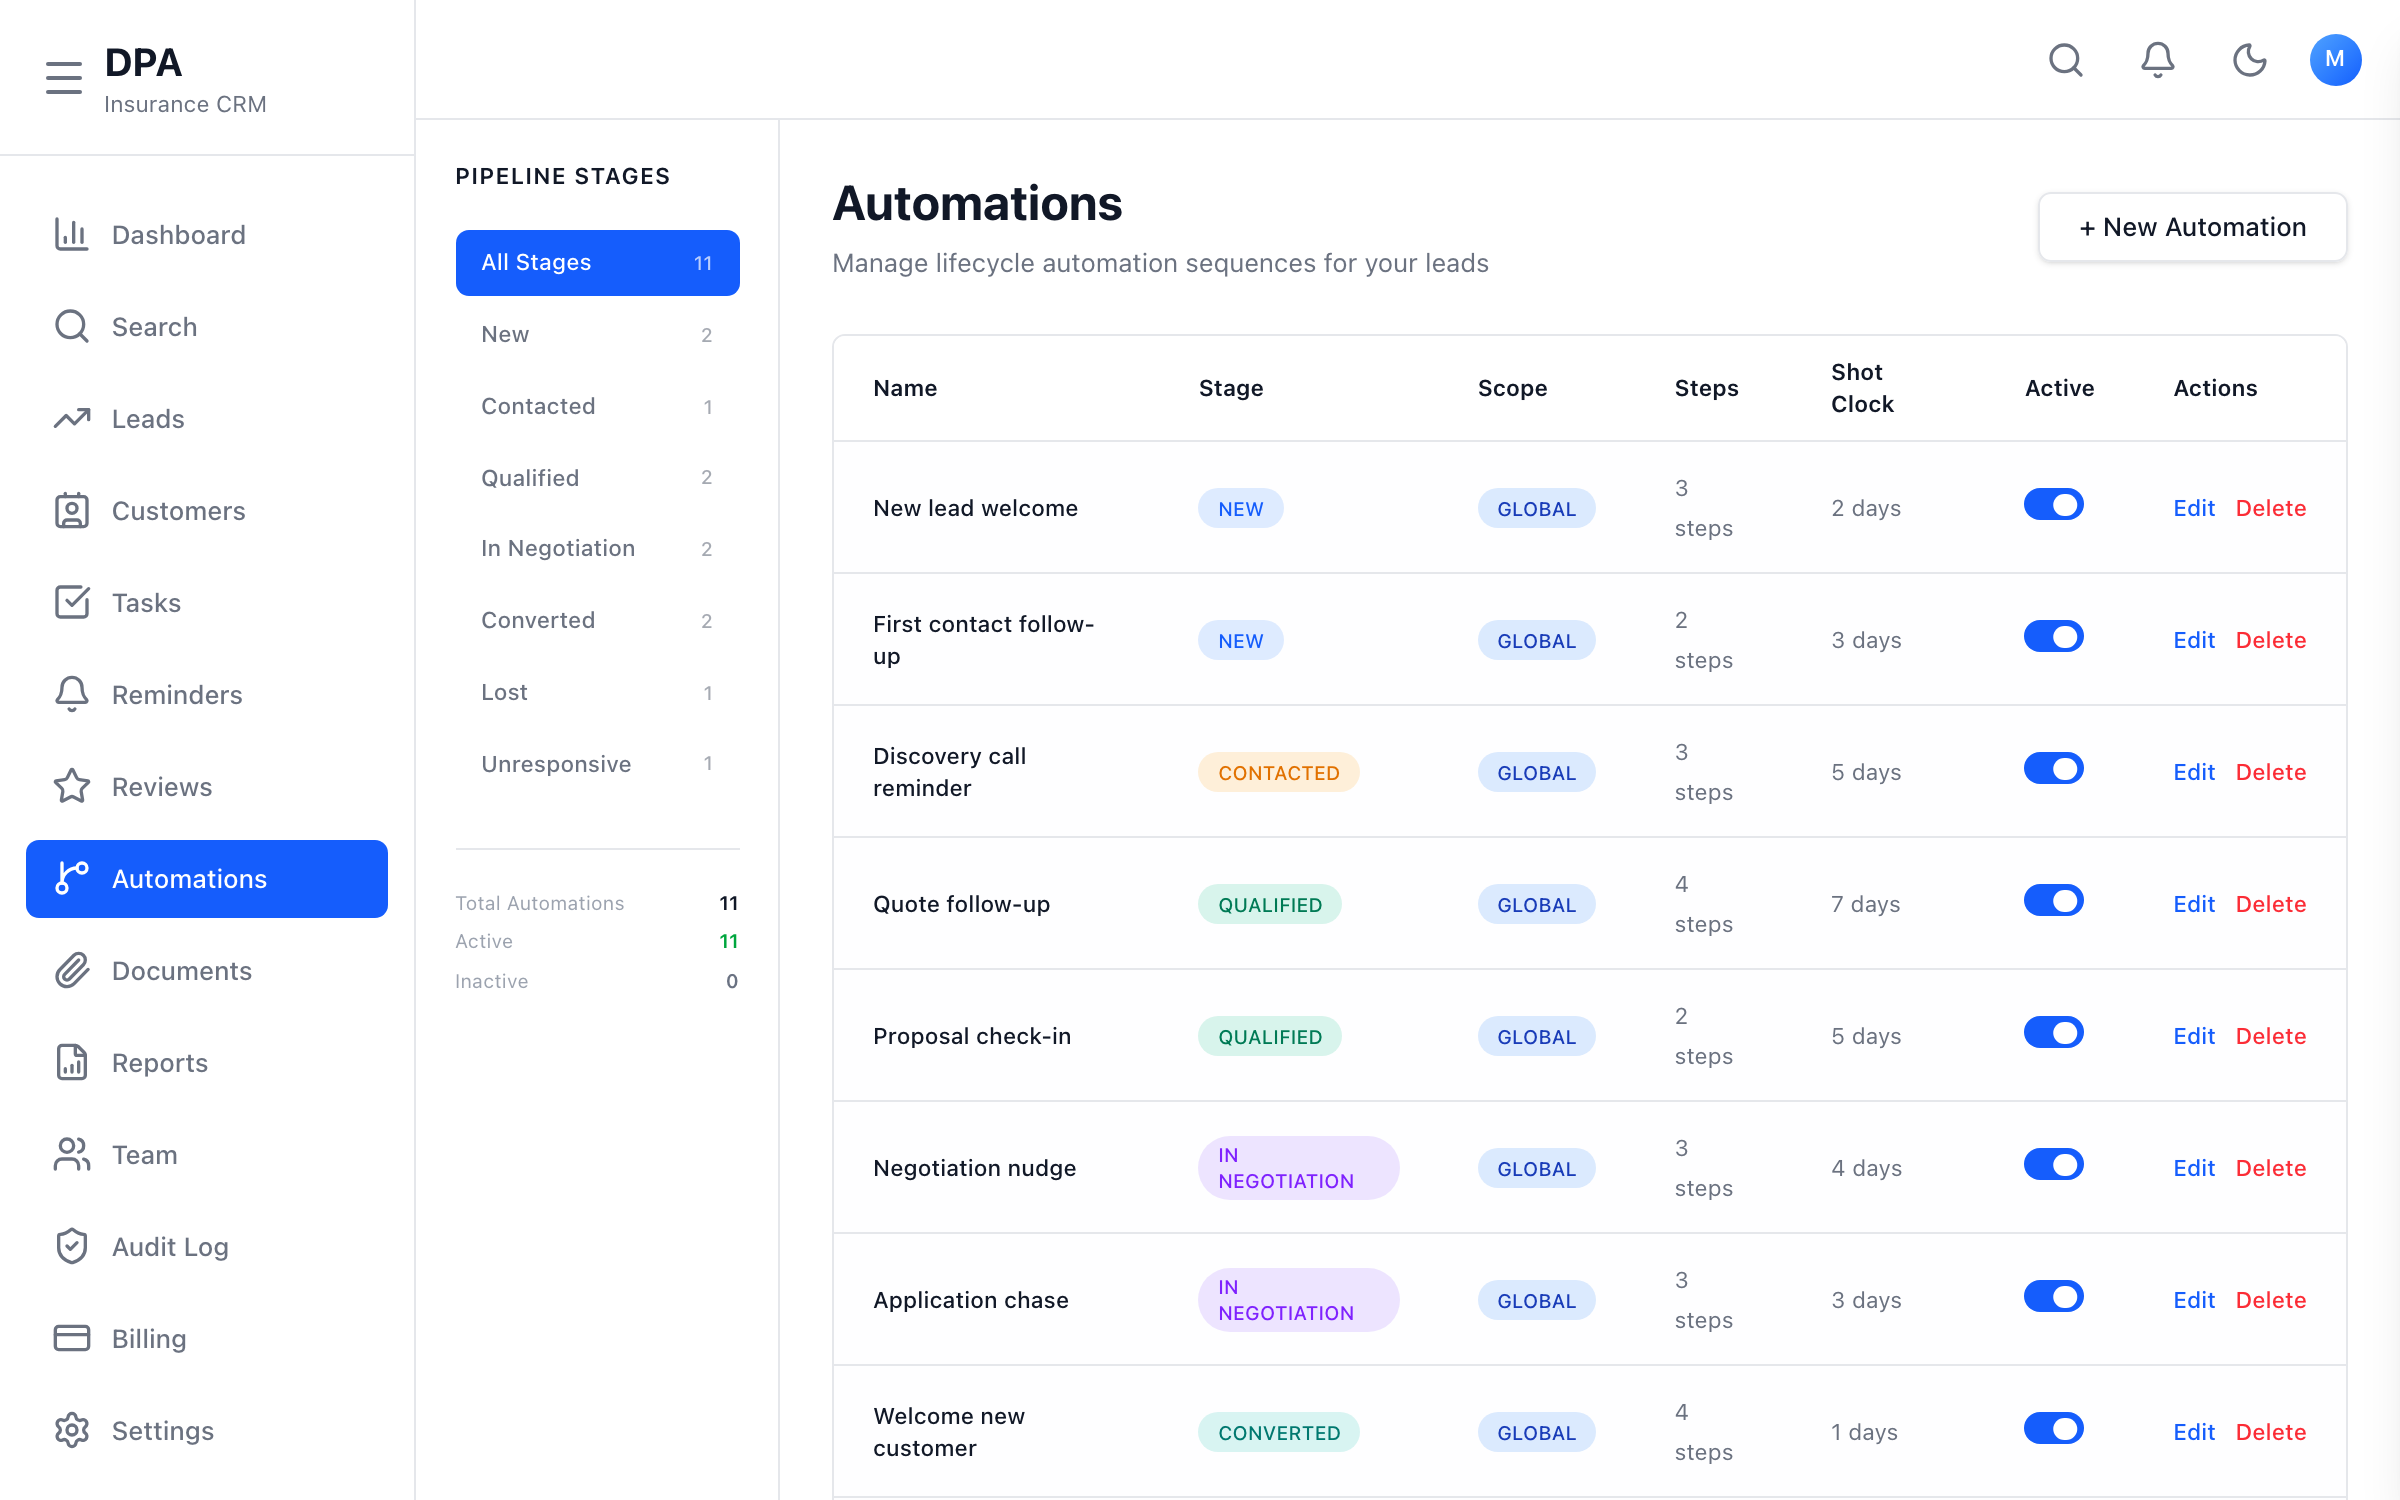
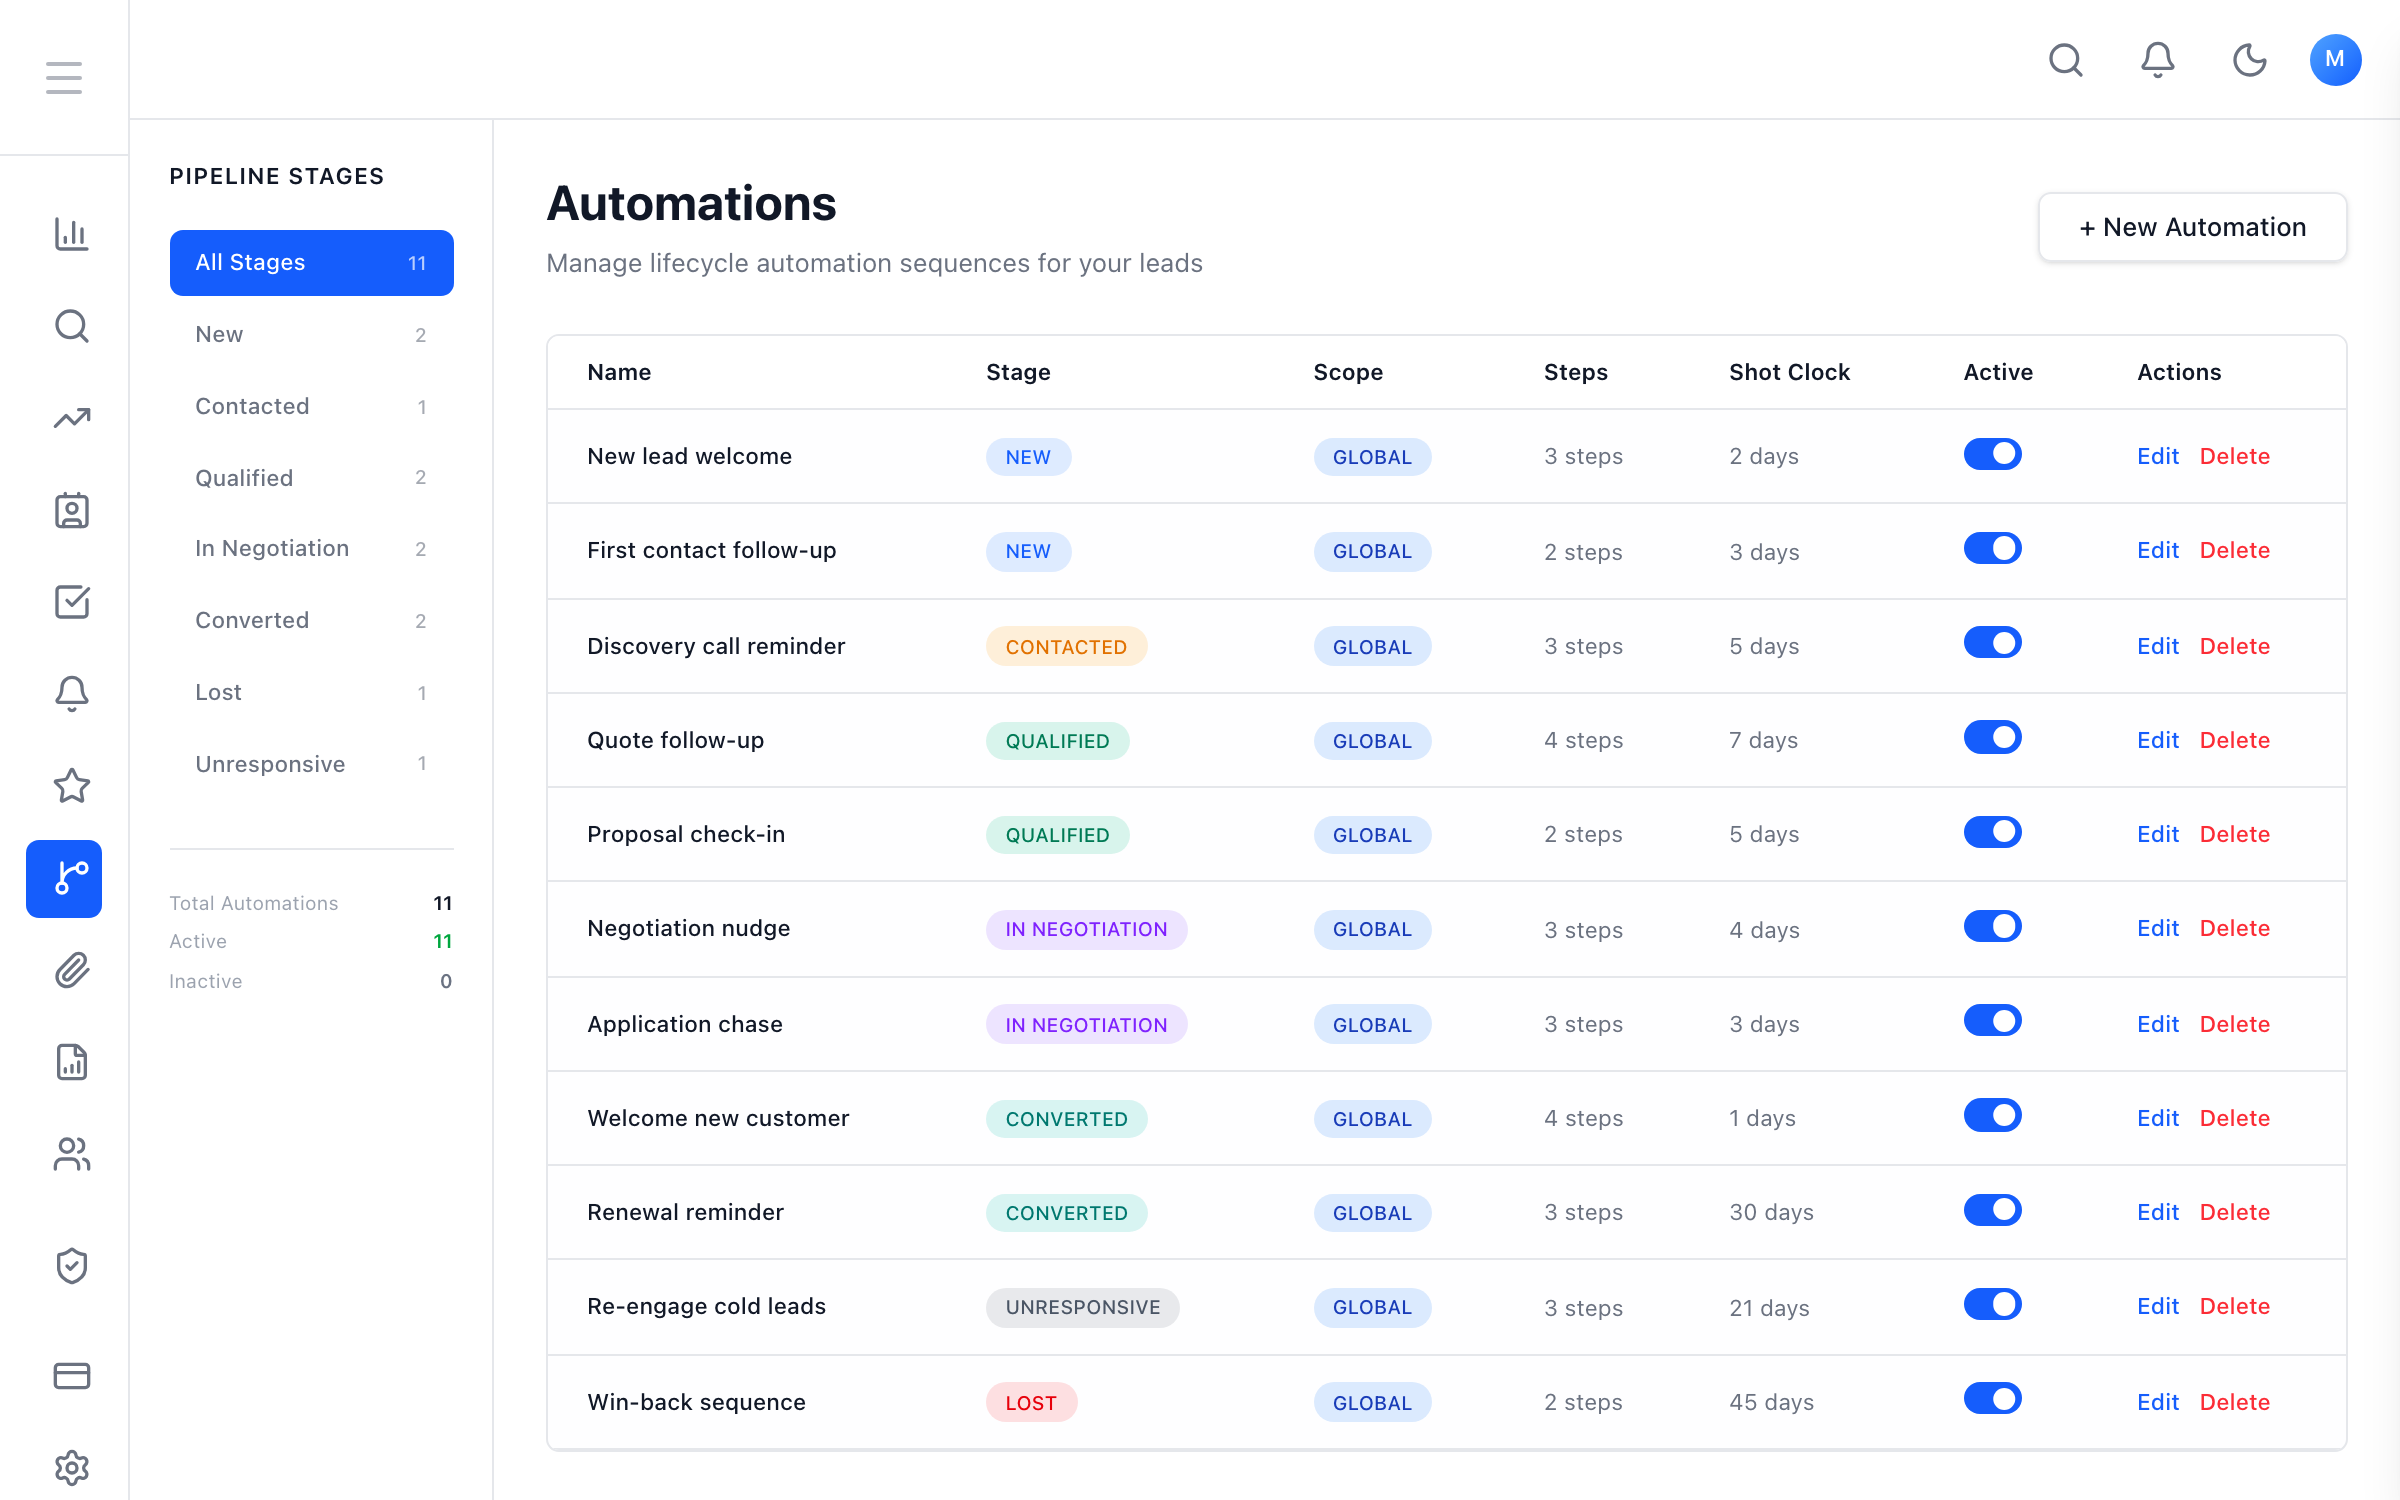
feat: add AI carousel and About section, drop How It Works
Brings the Just Ask section in line with the pipeline one — a four-card
carousel of real screenshots of the in-app assistant. Its replies are
scripted at the SSE layer for capture, since the assistant's tools query
the live database server-side and would otherwise expose real contacts.

Swaps the pipeline's tasks card for reports, which closes the section on
a stronger note (see everything, see one, automate it, measure it), and
recaptures cards 2-4 with the app's nav collapsed so the screenshots
carry less chrome.

Adds a full-bleed About section and points the Console link at
app.dpatricore.com, now live on the frontend project.

The team photo is a stock placeholder — it renders with a visible warning
and must be replaced before launch.

diff --git a/lib/constants/landing.ts b/lib/constants/landing.ts
@@ -1,8 +1,7 @@
 import type {
-  FeatureSection,
+  About,
   FeatureCarouselItem,
   HeroSlide,
-  Step,
   PricingTier,
   FooterColumn,
 } from "@/lib/types/landing";
@@ -10,10 +9,9 @@ import type {
 export const SITE = {
   name: "DPA",
   tagline: "The CRM built for insurance brokers",
+  consoleUrl: "https://app.dpatricore.com",
 };
 
-// AI slide is placeholder copy — DPA has no confirmed AI feature yet.
-// Verify against the actual product before this goes live.
 export const HERO_SLIDES: HeroSlide[] = [
   {
     video: "/hero-pipeline.mp4",
@@ -44,9 +42,10 @@ export const HERO_SLIDES: HeroSlide[] = [
   },
 ];
 
-// Only 2 of the eventual 3 feature sections are drafted so far (see PipelineSection / AISection).
+// 2 of the eventual 3 feature sections are built (see PipelineSection / AISection).
 // Pipeline screenshots are captured from the real app against mocked API data (fictional agency,
-// no real contacts). AI section is still a placeholder — the feature doesn't exist yet.
+// no real contacts). AI screenshots come from the in-app assistant with its SSE reply scripted,
+// since its tools query the real DB server-side.
 export const PIPELINE_HEADLINE = "Your Pipeline Engine";
 
 export const PIPELINE_CAROUSEL_ITEMS: FeatureCarouselItem[] = [
@@ -72,57 +71,55 @@ export const PIPELINE_CAROUSEL_ITEMS: FeatureCarouselItem[] = [
     image: "/feature-automations.png",
   },
   {
-    title: "Know what's due today",
+    title: "Know your numbers",
     description:
-      "Follow-ups, renewals, and deadlines land on your task list before they're late.",
-    imageAlt: "DPA task list showing what's due",
-    image: "/feature-tasks.png",
+      "Conversion rate, leads by stage, and how each agent is tracking over any date range.",
+    imageAlt: "DPA reports showing conversion rate and leads by stage",
+    image: "/feature-reports.png",
   },
 ];
 
-export const AI_SECTION: FeatureSection = {
-  headline: "Just Ask",
-  description:
-    "A chat built into the system. Ask for what you need, and it's done — no menus, no digging.",
-  imageAlt: "DPA AI chat responding to a prompt",
-  points: [
-    {
-      title: "Ask for a report",
-      description:
-        "Get a straight answer on your pipeline without opening a spreadsheet.",
-    },
-    {
-      title: "Ask it to build",
-      description: "Describe a pipeline or workflow, and it sets it up.",
-    },
-    {
-      title: "Ask it to remind you",
-      description:
-        "Say what to follow up on, and when — it remembers so you don't have to.",
-    },
-  ],
+export const AI_HEADLINE = "Just Ask";
+
+export const AI_CAROUSEL_ITEMS: FeatureCarouselItem[] = [
+  {
+    title: "Ask for a report",
+    description:
+      "Get a straight answer on your pipeline without opening a spreadsheet.",
+    imageAlt: "DPA AI chat answering a question about pipeline numbers",
+    image: "/feature-ai-report.png",
+  },
+  {
+    title: "Ask it to remind you",
+    description:
+      "Say what to follow up on, and when — it remembers so you don't have to.",
+    imageAlt: "DPA AI chat setting a follow-up reminder",
+    image: "/feature-ai-remind.png",
+  },
+  {
+    title: "Ask it to move a batch",
+    description:
+      "Shift a whole group of leads to a new stage at once — it checks with you first.",
+    imageAlt: "DPA AI chat proposing a bulk stage change",
+    image: "/feature-ai-move.png",
+  },
+  {
+    title: "Ask about a lead",
+    description:
+      "Where they stand, what was said last, and what's still outstanding.",
+    imageAlt: "DPA AI chat summarizing a lead's status and history",
+    image: "/feature-ai-lead.png",
+  },
+];
+
+// PLACEHOLDER — team photo is a stock shot, used only to demo the layout.
+// Replace before launch (the whiteboard in it belongs to another company).
+export const ABOUT: About = {
+  headline: "Management",
+  intro: "We build tools we want to use ourselves.",
+  photo: "/team-PLACEHOLDER.webp",
+  photoAlt: "Placeholder photo standing in for the DPA team",
 };
-
-export const HOW_IT_WORKS_STEPS: Step[] = [
-  {
-    number: "01",
-    title: "Import your book of business",
-    description:
-      "Upload a CSV of your existing leads or add them manually. Duplicates are flagged automatically, so your pipeline starts clean.",
-  },
-  {
-    number: "02",
-    title: "Automate your pipeline",
-    description:
-      "Set rules for follow-ups, reminders, and status changes so leads keep moving even when you're on a call.",
-  },
-  {
-    number: "03",
-    title: "Close with confidence",
-    description:
-      "Track every touchpoint — call, email, document — until the policy is signed, all in one shared record.",
-  },
-];
 
 // Placeholder pricing — replace with real figures before launch.
 export const PRICING_TIERS: PricingTier[] = [
@@ -176,14 +173,13 @@ export const FOOTER_COLUMNS: FooterColumn[] = [
     title: "Product",
     links: [
       { label: "Features", href: "#features" },
-      { label: "How it works", href: "#how-it-works" },
       { label: "Pricing", href: "#pricing" },
     ],
   },
   {
     title: "Company",
     links: [
-      { label: "About", href: "#" },
+      { label: "About", href: "#about" },
       { label: "Contact", href: "#" },
     ],
   },

diff --git a/components/features/AISection.tsx b/components/features/AISection.tsx
@@ -1,33 +1,17 @@
-import { AI_SECTION } from "@/lib/constants/landing";
-import ScreenshotFrame from "./ScreenshotFrame";
+import { AI_HEADLINE, AI_CAROUSEL_ITEMS } from "@/lib/constants/landing";
+import FeatureCarousel from "./FeatureCarousel";
 
 export default function AISection() {
-  const { headline, description, imageAlt, image, points } = AI_SECTION;
-
   return (
-    <div className="snap-start flex min-h-[100svh] min-h-[100dvh] flex-col border-t border-white/10 bg-brand text-white">
-      <div className="mx-auto flex w-full max-w-6xl flex-1 flex-col gap-8 px-6 py-10 sm:py-12">
-        <div className="max-w-xl shrink-0">
-          <h2 className="text-balance text-4xl font-semibold leading-[1.1] tracking-tight sm:text-5xl">
-            {headline}
-          </h2>
-          <p className="mt-4 max-w-lg text-balance text-xl leading-8 text-white/70">
-            {description}
-          </p>
-        </div>
+    <div className="snap-start flex min-h-[100svh] min-h-[100dvh] flex-col justify-center border-t border-white/10 bg-brand py-10 text-white sm:py-12">
+      <div className="mx-auto w-full max-w-6xl px-6">
+        <h2 className="max-w-xl text-balance text-3xl font-semibold leading-[1.1] tracking-tight sm:text-4xl">
+          {AI_HEADLINE}
+        </h2>
+      </div>
 
-        <ScreenshotFrame imageAlt={imageAlt} image={image} dark />
-
-        <div className="grid shrink-0 grid-cols-1 gap-8 sm:grid-cols-3">
-          {points.map((point) => (
-            <div key={point.title} className="border-t border-white/20 pt-4">
-              <h3 className="font-semibold tracking-tight">{point.title}</h3>
-              <p className="mt-1.5 text-sm leading-6 text-white/60">
-                {point.description}
-              </p>
-            </div>
-          ))}
-        </div>
+      <div className="mt-8">
+        <FeatureCarousel items={AI_CAROUSEL_ITEMS} dark />
       </div>
     </div>
   );

diff --git a/components/About.tsx b/components/About.tsx
@@ -1,0 +1,35 @@
+import Image from "next/image";
+import { ABOUT } from "@/lib/constants/landing";
+
+export default function About() {
+  return (
+    <section
+      id="about"
+      className="snap-start relative flex min-h-[100svh] min-h-[100dvh] flex-col justify-end overflow-hidden border-t border-border"
+    >
+      <Image
+        src={ABOUT.photo}
+        alt={ABOUT.photoAlt}
+        fill
+        sizes="100vw"
+        className="object-cover"
+      />
+      {/* Weighted to the bottom-left so the copy sits on the floor/rug rather
+          than across the whiteboard, which is the busiest part of the frame. */}
+      <div className="absolute inset-0 bg-gradient-to-t from-black/90 via-black/50 to-black/20" />
+      <div className="absolute inset-0 bg-gradient-to-r from-black/60 via-transparent to-transparent" />
+
+      <div className="relative mx-auto w-full max-w-6xl px-6 pb-20 sm:pb-24">
+        <h2 className="max-w-xl text-balance text-4xl font-semibold leading-[1.1] tracking-tight text-white sm:text-5xl">
+          {ABOUT.headline}
+        </h2>
+        <p className="mt-6 max-w-xl text-balance text-xl leading-8 text-white/80">
+          {ABOUT.intro}
+        </p>
+        <p className="mt-8 text-sm text-white/40">
+          Placeholder team photo — for layout only, replace before launch.
+        </p>
+      </div>
+    </section>
+  );
+}

diff --git a/lib/types/landing.ts b/lib/types/landing.ts
@@ -3,24 +3,11 @@ export interface NavLink {
   href: string;
 }
 
-export interface FeatureSectionPoint {
-  title: string;
-  description: string;
-}
-
 export interface FeatureCarouselItem {
   title: string;
   description: string;
   imageAlt: string;
   image?: string;
-}
-
-export interface FeatureSection {
-  headline: string;
-  description: string;
-  imageAlt: string;
-  image?: string;
-  points: FeatureSectionPoint[];
 }
 
 export interface HeroSlide {
@@ -31,10 +18,12 @@ export interface HeroSlide {
   duration?: number;
 }
 
-export interface Step {
-  number: string;
-  title: string;
-  description: string;
+
+export interface About {
+  headline: string;
+  intro: string;
+  photo: string;
+  photoAlt: string;
 }
 
 export interface PricingTier {

diff --git a/app/page.tsx b/app/page.tsx
@@ -1,7 +1,7 @@
 import Navbar from "@/components/Navbar";
 import Hero from "@/components/Hero";
 import Features from "@/components/features/Features";
-import HowItWorks from "@/components/HowItWorks";
+import About from "@/components/About";
 import Pricing from "@/components/Pricing";
 import CTA from "@/components/CTA";
 import Footer from "@/components/Footer";
@@ -13,7 +13,7 @@ export default function Home() {
       <main className="flex-1">
         <Hero />
         <Features />
-        <HowItWorks />
+        <About />
         <Pricing />
         <CTA />
       </main>

diff --git a/components/Navbar.tsx b/components/Navbar.tsx
@@ -10,7 +10,7 @@ export default function Navbar() {
         </Link>
 
         <a
-          href="#"
+          href={SITE.consoleUrl}
           className="text-sm font-medium text-white transition-colors hover:text-white/80"
         >
           Console
